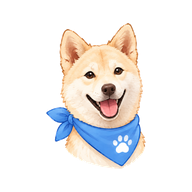
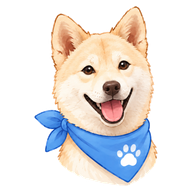
앱 아이콘 배경 투명 처리, 좌측 로고 확대
Claude-Session: https://claude.ai/code/session_01NMP3fxk7VMA7noBvZiZZu9

diff --git a/index.html b/index.html
@@ -3,10 +3,10 @@
 <meta charset="utf-8">
 <meta name="viewport" content="width=device-width,initial-scale=1,viewport-fit=cover">
 <meta name="theme-color" content="#EDF2FA">
-<link rel="manifest" href="manifest.webmanifest?v=2">
+<link rel="manifest" href="manifest.webmanifest?v=3">
 <meta name="description" content="수업 진도 관리 도우미 진도깨">
 <title>진도깨 | 선생님의 충직한 진도 관리 도우미</title>
[3 lines of base64/hex data omitted]
 <meta name="claude:viewport-fit-sides" content="cover">
 <link rel="preconnect" href="https://fonts.googleapis.com">
@@ -49,7 +49,7 @@ button:disabled{opacity:.45;cursor:not-allowed}
 .rail{position:sticky;top:0;height:calc(100vh / var(--z,1));padding:20px 12px;display:flex;flex-direction:column;gap:16px;border-right:1px solid var(--line);background:var(--surface);padding-left:max(12px,env(safe-area-inset-left,0px))}
 .brand{display:flex;align-items:center;gap:6px;padding:0 4px}
 .brand b{font-family:'Jua','Noto Sans KR',sans-serif;font-size:28px;font-weight:400;letter-spacing:0;color:var(--accent)}
-.brandimg{display:block;width:46px;height:46px;object-fit:contain}
+.brandimg{display:block;width:54px;height:54px;object-fit:contain}
 .brand small{display:block;font-size:11px;color:var(--muted);line-height:1.35}
 .nav{display:flex;flex-direction:column;gap:2px}
 .nav button{display:flex;align-items:center;gap:10px;border:0;background:none;padding:9px 12px;border-radius:10px;text-align:left;color:var(--muted);font-weight:500;position:relative}
@@ -2451,7 +2451,7 @@ window.addEventListener('resize',()=>{try{applyZoom()}catch(e){}})
 try{setZoom(+localStorage.getItem(ZK)||1,true)}catch(e){}
 boot();
 try{if('serviceWorker' in navigator&&/^https?:/.test(location.protocol))navigator.serviceWorker.register('sw.js').then(()=>{if(NOTIF.push&&Notification.permission==='granted')pushSync(false).then(()=>remSync()).catch(()=>{})}).catch(()=>{})}catch(e){}
-$('#brandDog').innerHTML='<img class="brandimg" src="'+JD_SRC+'" width="46" height="46" alt="진도깨">';
+$('#brandDog').innerHTML='<img class="brandimg" src="'+JD_SRC+'" width="54" height="54" alt="진도깨">';
 render();
 if(NEIS.key&&NEIS.school&&!MEALS[TK])loadMeals(mondayOf(TK),false);
 
